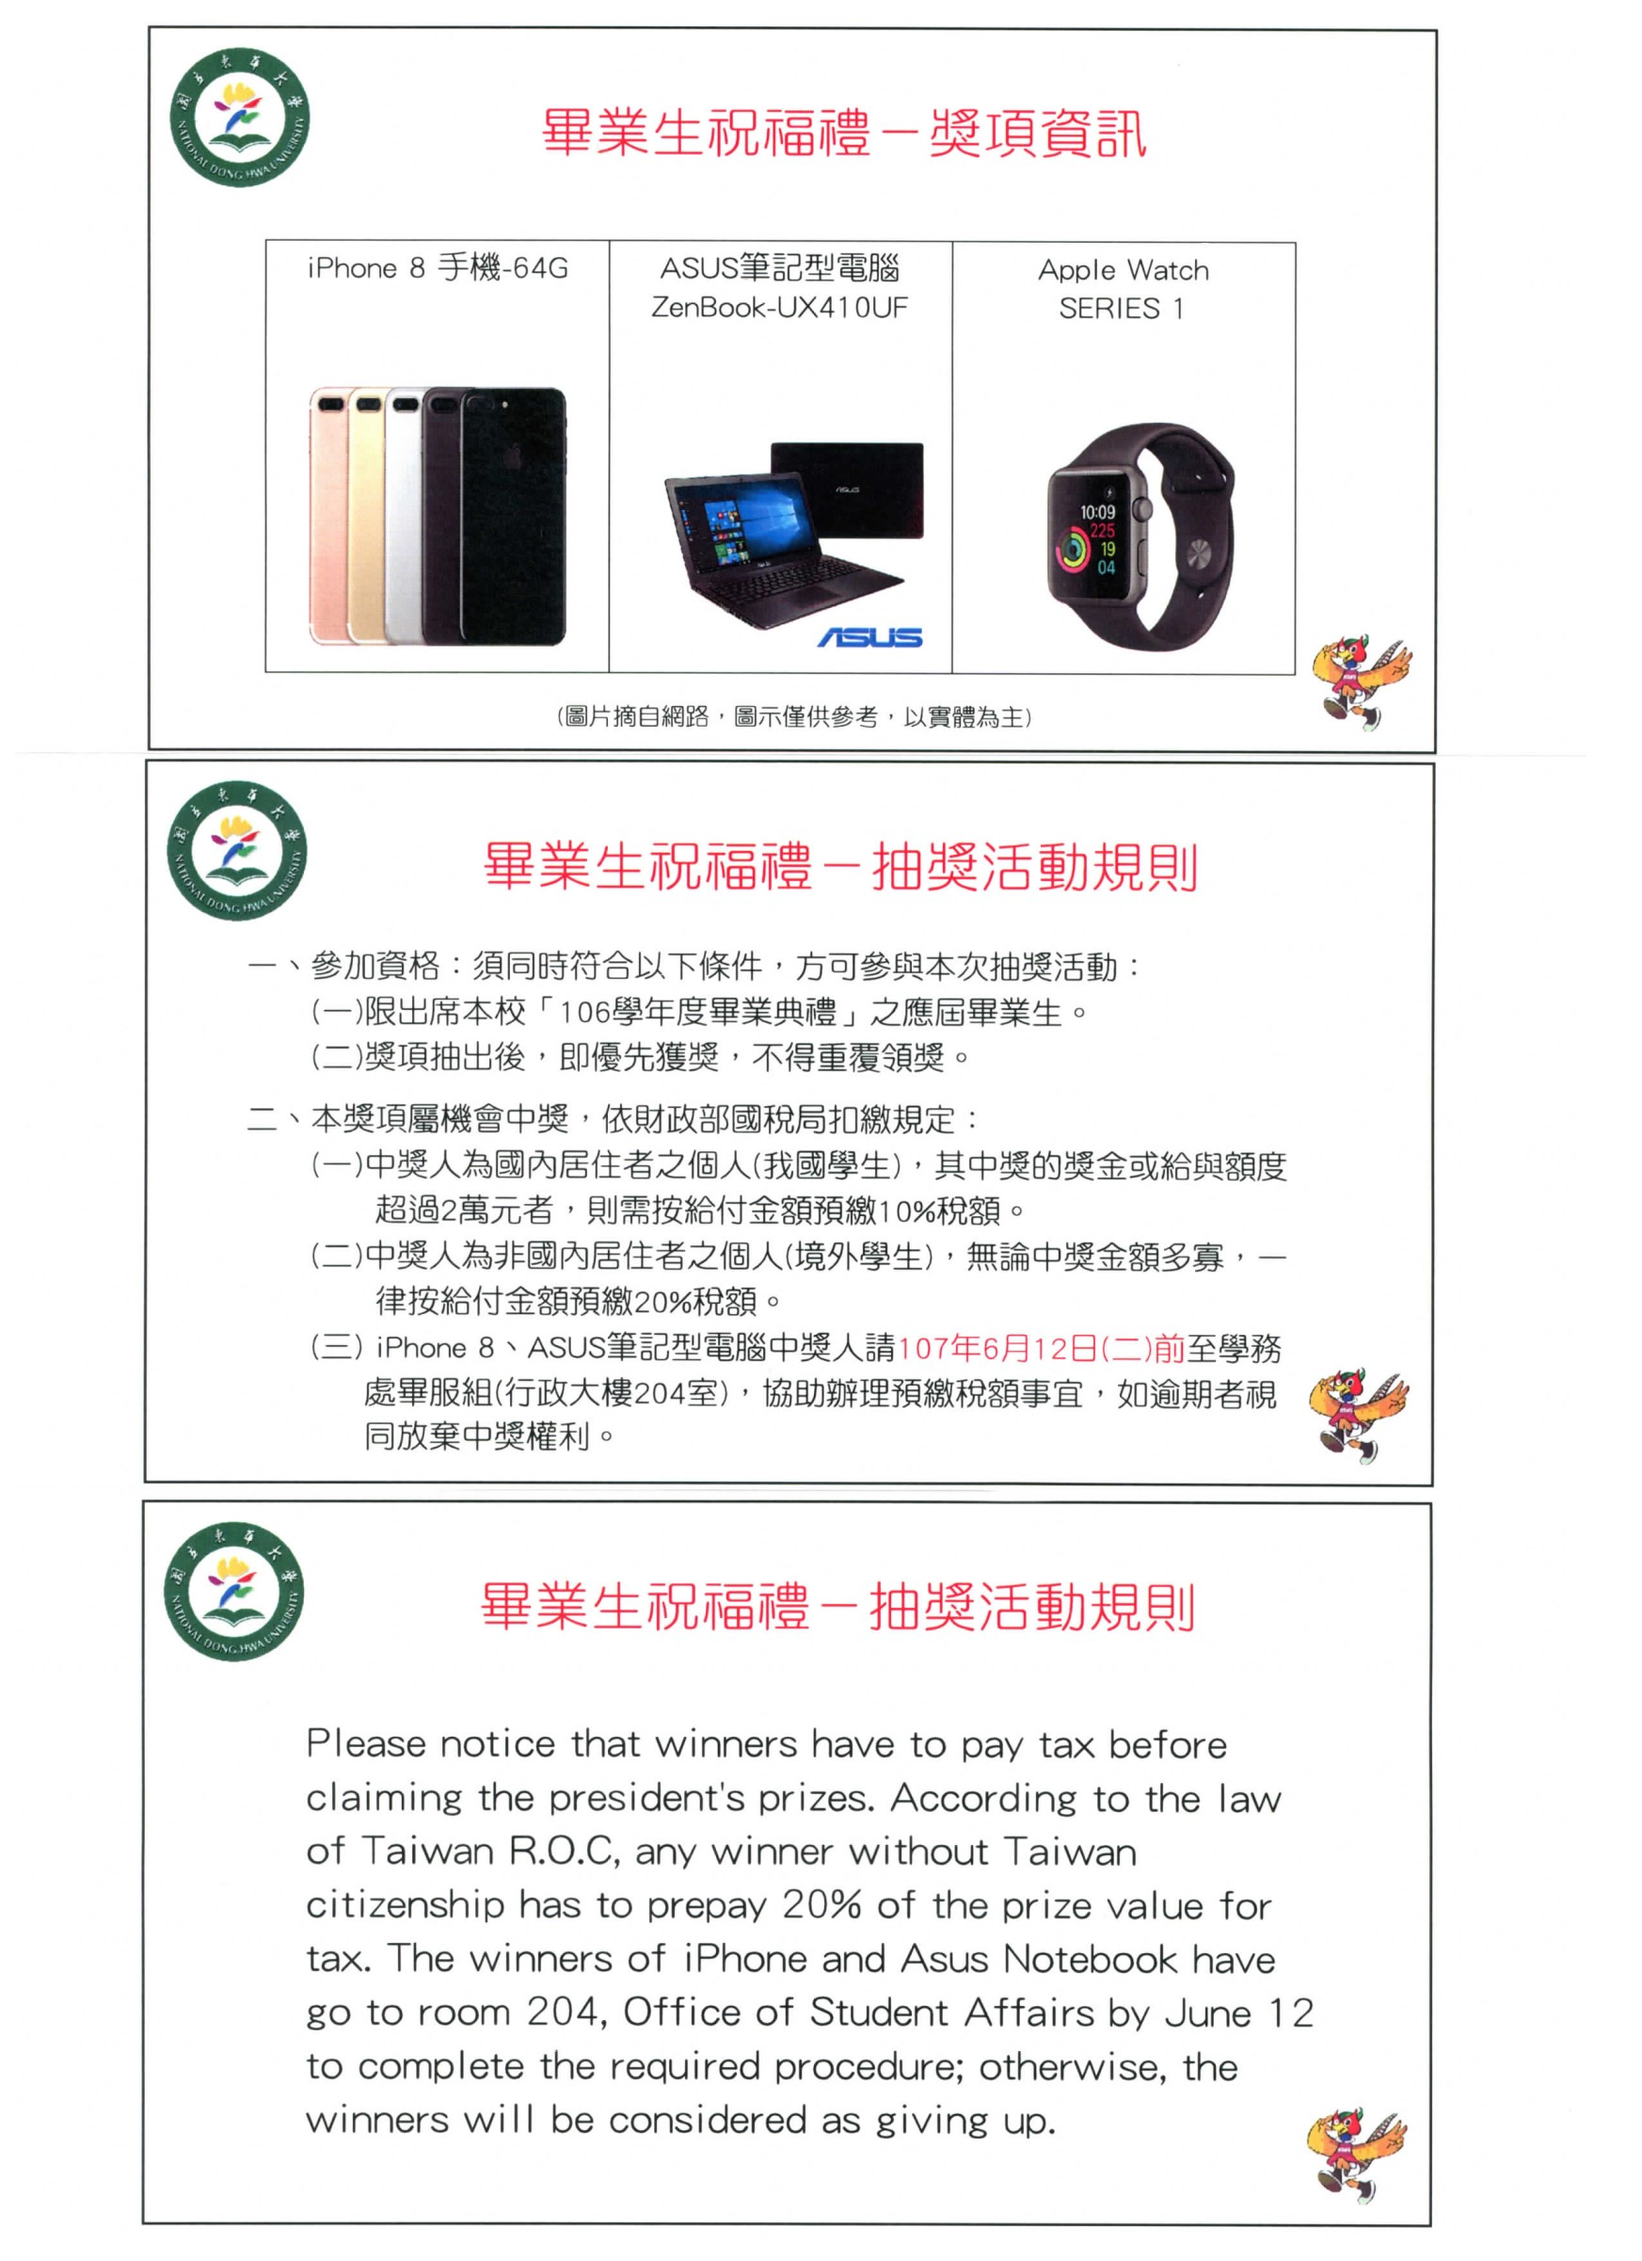
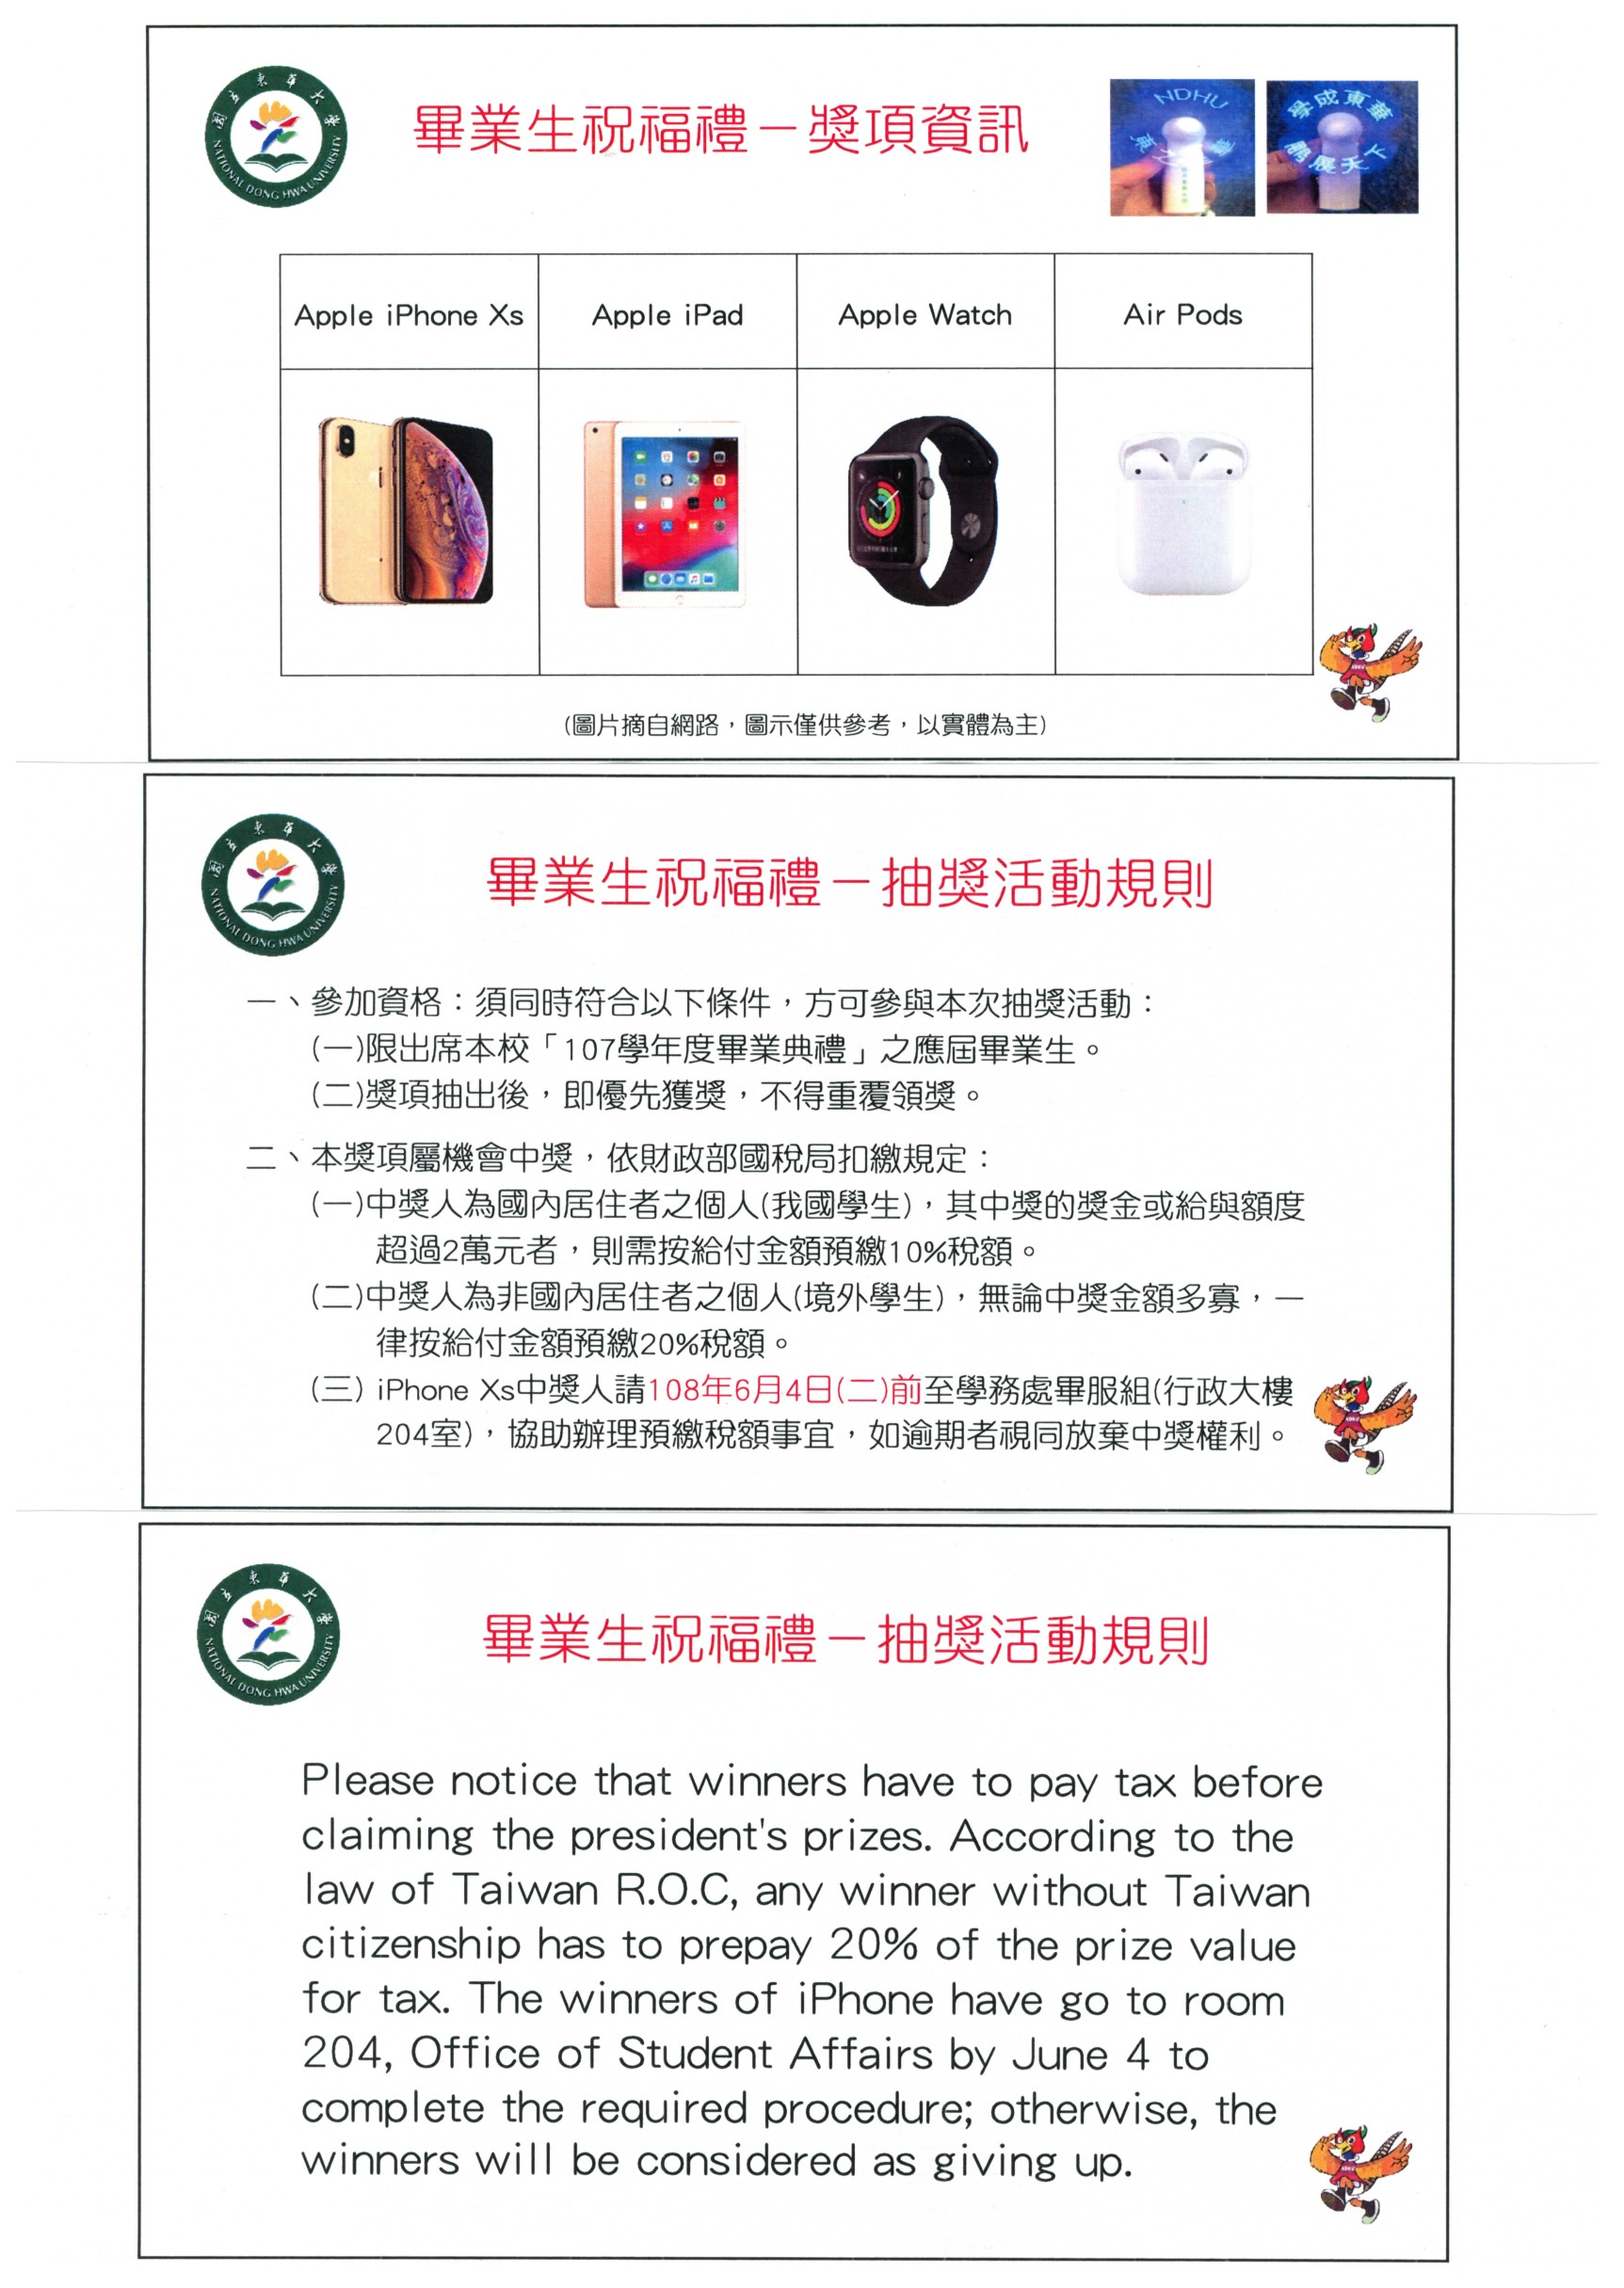
Change picture in schedule and blessing.

Changed region(s): [[0.0614, 0.0, 0.891, 0.9992], [0.8603, 0.7182, 0.891, 0.7494]]

diff --git a/schedule.html b/schedule.html
@@ -63,7 +63,8 @@
 							<!-- <h1>典禮流程</h1>
 							<span class="image main"><img style="border-radius: 25px;" src="pictures/banner01.jpg" alt="" /></span> -->
 							<div class="wrapper">
-								<a data-fancybox="images" href="docs/schedule.jpg"><img src="docs/schedule.jpg" style="width:100%" /></a>
+								<a data-fancybox="images" href="docs/schedule01.jpg"><img src="docs/schedule01.jpg" style="width:100%" /></a></br></br></br>
+								<a data-fancybox="images" href="docs/schedule02.jpg"><img src="docs/schedule02.jpg" style="width:100%" /></a>
 							</div>
 						</div>
 					</div>
@@ -73,9 +74,9 @@
 						<div class="inner">
 							<ul class="copyright">
 								<li><a href="https://www.facebook.com/ndhu.page/" class="icon style3 fa-facebook" style="color: #ffffff"><span class="label">Facebook</span></a></li>
-								<li style="line-height:1.25">97401 花蓮縣壽豐鄉大學路二段一號 </br>
-										National Dong Hwa University , All Rights Reserved. </br>
-										No. 1, Sec. 2, Da Hsueh Rd. Shoufeng, Hualien 97401, Taiwan, R.O.C. </br>
+								<li style="line-height:1.25">97401 花蓮縣壽豐鄉大學路二段一號</br>
+										National Dong Hwa University , All Rights Reserved.</br>
+										No. 1, Sec. 2, Da Hsueh Rd. Shoufeng, Hualien 97401, Taiwan, R.O.C.</br>
 										Tel：+886-3-890-3000  校安專線：03-890-6995、03-890-6119</li>
 								<!-- Original Author: HTML5 UP -->
 							</ul>

diff --git a/blessing.html b/blessing.html
@@ -75,12 +75,12 @@
 									<iframe src="https://drive.google.com/file/d/14jZ2BsNaMvmTkc3PjvVpaiOS8TkzJ4KF/preview" width="100%" height="700px"></iframe>
 								</br></br></br></br>
 								<h1 style="text-align: center; color: #008cef;">—畢業生致詞代表文稿—</h1>
-								<a data-fancybox="images" href="docs/blessing03.jpg"><img src="docs/blessing02.jpg" style="width:100%" /></a>
+								<a data-fancybox="images" href="docs/blessing02.jpg"><img src="docs/blessing02.jpg" style="width:100%" /></a>
 									</br></br></br>
 								<a data-fancybox="images" href="docs/blessing03.jpg"><img src="docs/blessing03.jpg" style="width:100%" /></a>
-								</br></br></br></br>
+								</br></br></br></br> -->
 								<h1 style="text-align: center; color: #008cef;">—祝福禮獎項資訊及抽獎活動規則—</h1>
-								<a data-fancybox="images" href="docs/blessing03.jpg"><img src="docs/blessing04.jpg" style="width:100%" /></a> -->
+								<a data-fancybox="images" href="docs/blessing04.jpg"><img src="docs/blessing04.jpg" style="width:100%" /></a>
 							</div>
 						</div>
 					</div>
